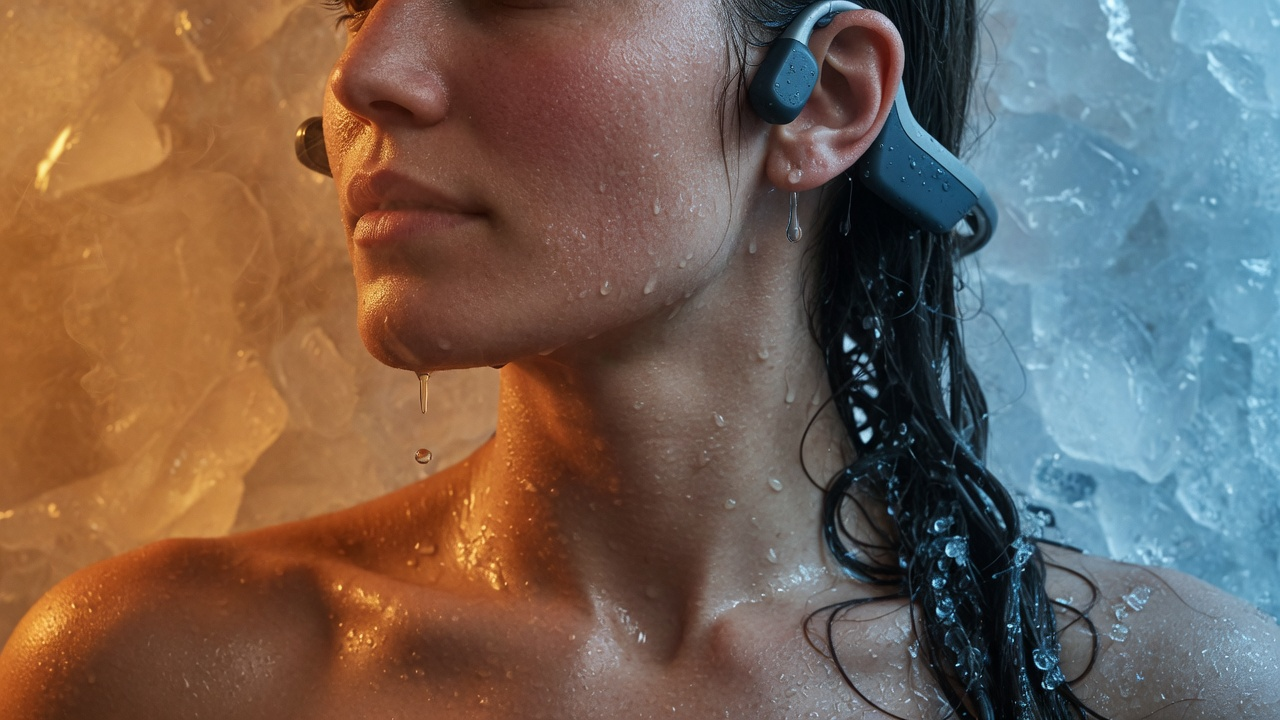
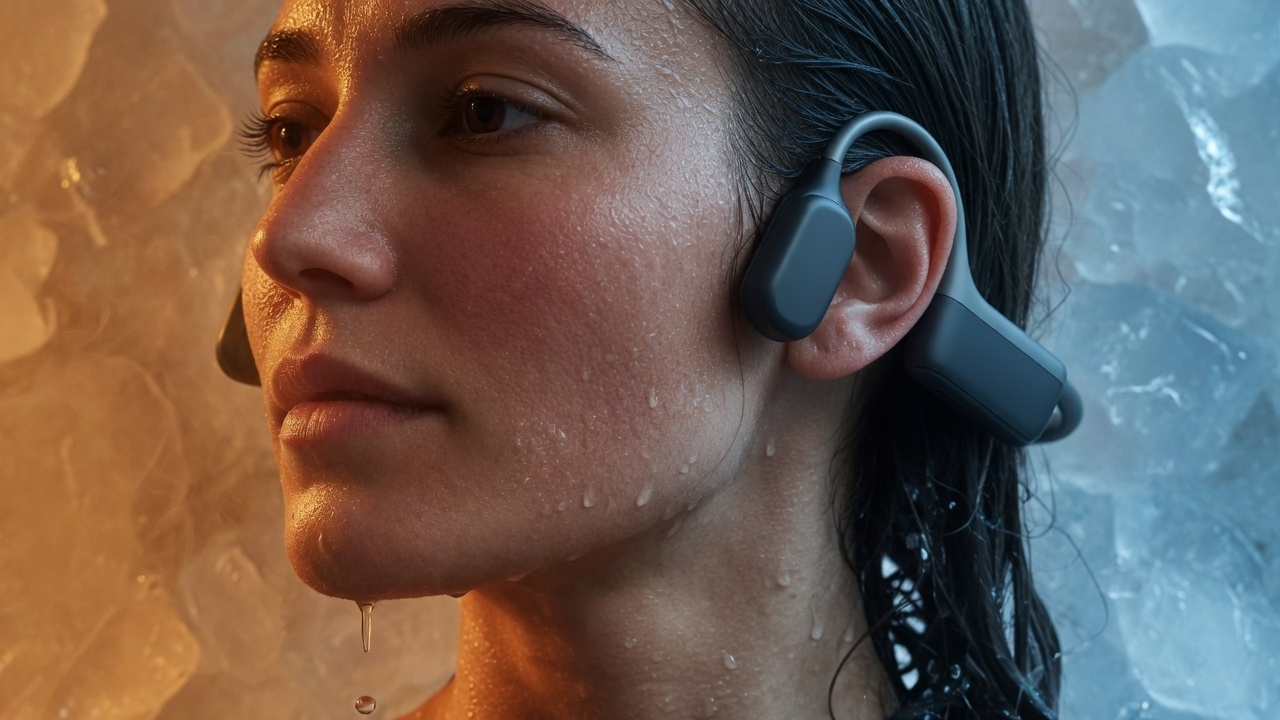
Show a head-in-ice still and drop the neckband.
Add an ice-bath close-up, recrop the lifestyle frames to the head, and remove the neck piece from the 3D model and copy so the product reads as head-worn.

diff --git a/index3.html b/index3.html
@@ -330,8 +330,15 @@ section, .s-foot{
 .chapter-frame img{
   position:absolute; inset:0;
   width:100%; height:100%;
-  object-fit:cover; object-position:center 22%;
+  object-fit:cover; object-position:center 14%;
+  transform:scale(1.14);
+  transform-origin:center 18%;
   display:block;
+}
+.chapter--ice .chapter-frame img{
+  object-position:center 42%;
+  transform:scale(1.08);
+  transform-origin:center 45%;
 }
 .chapter-frame::after{
   content:"";
@@ -388,7 +395,9 @@ section, .s-foot{
 .contrast-frame img{
   position:absolute; inset:0;
   width:100%; height:100%;
-  object-fit:cover; object-position:center 30%;
+  object-fit:cover; object-position:center 18%;
+  transform:scale(1.12);
+  transform-origin:center 22%;
 }
 .contrast-frame::after{
   content:"";
@@ -714,7 +723,7 @@ button[type=submit][disabled]{ opacity:.55; cursor:default; transform:none; }
   <symbol id="i-btn" viewBox="0 0 24 24"><circle cx="5.5" cy="12" r="2.2"/><circle cx="12" cy="12" r="2.2"/><circle cx="18.5" cy="12" r="2.2"/></symbol>
 </defs></svg>
 
-<canvas id="stage" role="img" aria-label="A slowly rotating three-dimensional view of the Dipsana bone conduction headset: a thin neckband, two wedge-shaped housings, hooks that curve over the ear, and rounded pads that rest on the cheekbone."></canvas>
+<canvas id="stage" role="img" aria-label="A slowly rotating three-dimensional view of the Dipsana bone conduction headset: two wedge-shaped housings, hooks that curve over the ear, and rounded pads that rest on the cheekbone. Head-worn, no neckband."></canvas>
 
 <div class="rail" aria-hidden="true">
   <span class="rail-deg">110°</span>
@@ -792,7 +801,7 @@ button[type=submit][disabled]{ opacity:.55; cursor:default; transform:none; }
         </g>
       </svg>
       <figcaption class="plot-cap mono">
-        <span>sauna</span><span>steam</span><span>plunge</span><span>ice</span>
+        <span>sauna</span><span>steam</span><span>contrast</span><span>ice</span>
       </figcaption>
     </figure>
   </section>
@@ -819,13 +828,13 @@ button[type=submit][disabled]{ opacity:.55; cursor:default; transform:none; }
     </div>
   </section>
 
-  <section class="chapter chapter--cold" data-reveal aria-labelledby="u3">
+  <section class="chapter chapter--cold chapter--ice" data-reveal aria-labelledby="u3">
     <div class="chapter-frame">
-      <img src="images/v3-plunge.jpg" alt="Close-up of a young man in an ice bath, wet skin and droplets, wearing Dipsana headphones" width="864" height="1152" loading="lazy" decoding="async">
+      <img src="images/v3-ice.jpg" alt="Close-up of a young man's head in an ice bath, ice cubes at the waterline, wearing Dipsana headphones" width="864" height="1152" loading="lazy" decoding="async">
       <div class="chapter-copy">
-        <p class="mono deg-cold rv">Cold plunge · 3–10°C · 2–3 min</p>
-        <h2 class="display display--mid rv" id="u3">Cold plunge</h2>
-        <p class="lede rv">One song. Get in, finish the song, get out.</p>
+        <p class="mono deg-cold rv">Ice bath · 0–5°C · 3–5 min</p>
+        <h2 class="display display--mid rv" id="u3">Ice bath</h2>
+        <p class="lede rv">Offline mode, because your phone is in a locker and your hands don’t work anyway.</p>
       </div>
     </div>
   </section>
@@ -882,7 +891,7 @@ button[type=submit][disabled]{ opacity:.55; cursor:default; transform:none; }
           <div class="swap-ico"><svg class="ico" aria-hidden="true"><use href="#i-temp"/></svg></div>
           <span class="mono swap-deg">0–110°</span>
           <p class="swap-p">Silicone softens, slips and dies in sauna heat.</p>
-          <div class="swap-a"><span class="tag">Nitinol band</span>
+          <div class="swap-a"><span class="tag">Nitinol frame</span>
             <p>Heat-stable pads. The frame remembers its shape.</p></div>
         </li>
         <li class="rv">
@@ -948,7 +957,6 @@ button[type=submit][disabled]{ opacity:.55; cursor:default; transform:none; }
           </g>
           <g fill="rgba(240,235,227,.04)" stroke="rgba(240,235,227,.72)"
              stroke-width="2.2" stroke-linecap="round" stroke-linejoin="round">
-            <path d="M 620 294 C 672 282, 728 296, 752 332 C 774 364, 772 396, 752 418" fill="none"/>
             <path d="M 378 372 C 350 340, 352 288, 386 258 C 420 228, 470 228, 498 254" fill="none"/>
             <path d="M 486 248 L 596 270 C 616 274, 626 288, 622 306 C 618 326, 602 338, 582 340
                      L 502 348 C 482 350, 470 338, 470 318 L 470 272 C 470 258, 476 246, 486 248 Z"/>
@@ -1008,7 +1016,7 @@ button[type=submit][disabled]{ opacity:.55; cursor:default; transform:none; }
       <div class="spec"><dt>Storage</dt><dd>64GB onboard</dd></div>
       <div class="spec"><dt>Above water</dt><dd>Bluetooth 5.4</dd></div>
       <div class="spec"><dt>Below water</dt><dd>Offline MP3 mode</dd></div>
-      <div class="spec"><dt>Band</dt><dd>Nitinol memory alloy</dd></div>
+      <div class="spec"><dt>Frame</dt><dd>Nitinol, head-worn</dd></div>
       <div class="spec"><dt>Contact pads</dt><dd>Heat-stable, not silicone</dd></div>
       <div class="spec"><dt>Playback</dt><dd>10 hours</dd></div>
       <div class="spec"><dt>Fast charge</dt><dd>10 minutes = 3 hours</dd></div>
@@ -1125,17 +1133,6 @@ const root  = new THREE.Group();
 const inner = new THREE.Group();
 root.add(inner);
 scene.add(root);
-
-const bandCurve = new THREE.CatmullRomCurve3([
-  new THREE.Vector3(-0.615, 0.19, -0.04),
-  new THREE.Vector3(-0.610, 0.21, -0.30),
-  new THREE.Vector3(-0.440, 0.12, -0.62),
-  new THREE.Vector3( 0.000, 0.03, -0.75),
-  new THREE.Vector3( 0.440, 0.12, -0.62),
-  new THREE.Vector3( 0.610, 0.21, -0.30),
-  new THREE.Vector3( 0.615, 0.19, -0.04),
-], false, 'catmullrom', 0.4);
-inner.add(new THREE.Mesh(new THREE.TubeGeometry(bandCurve, 110, 0.035, 12, false), bandMat));
 
 function housingGeometry(){
   const s = new THREE.Shape();
